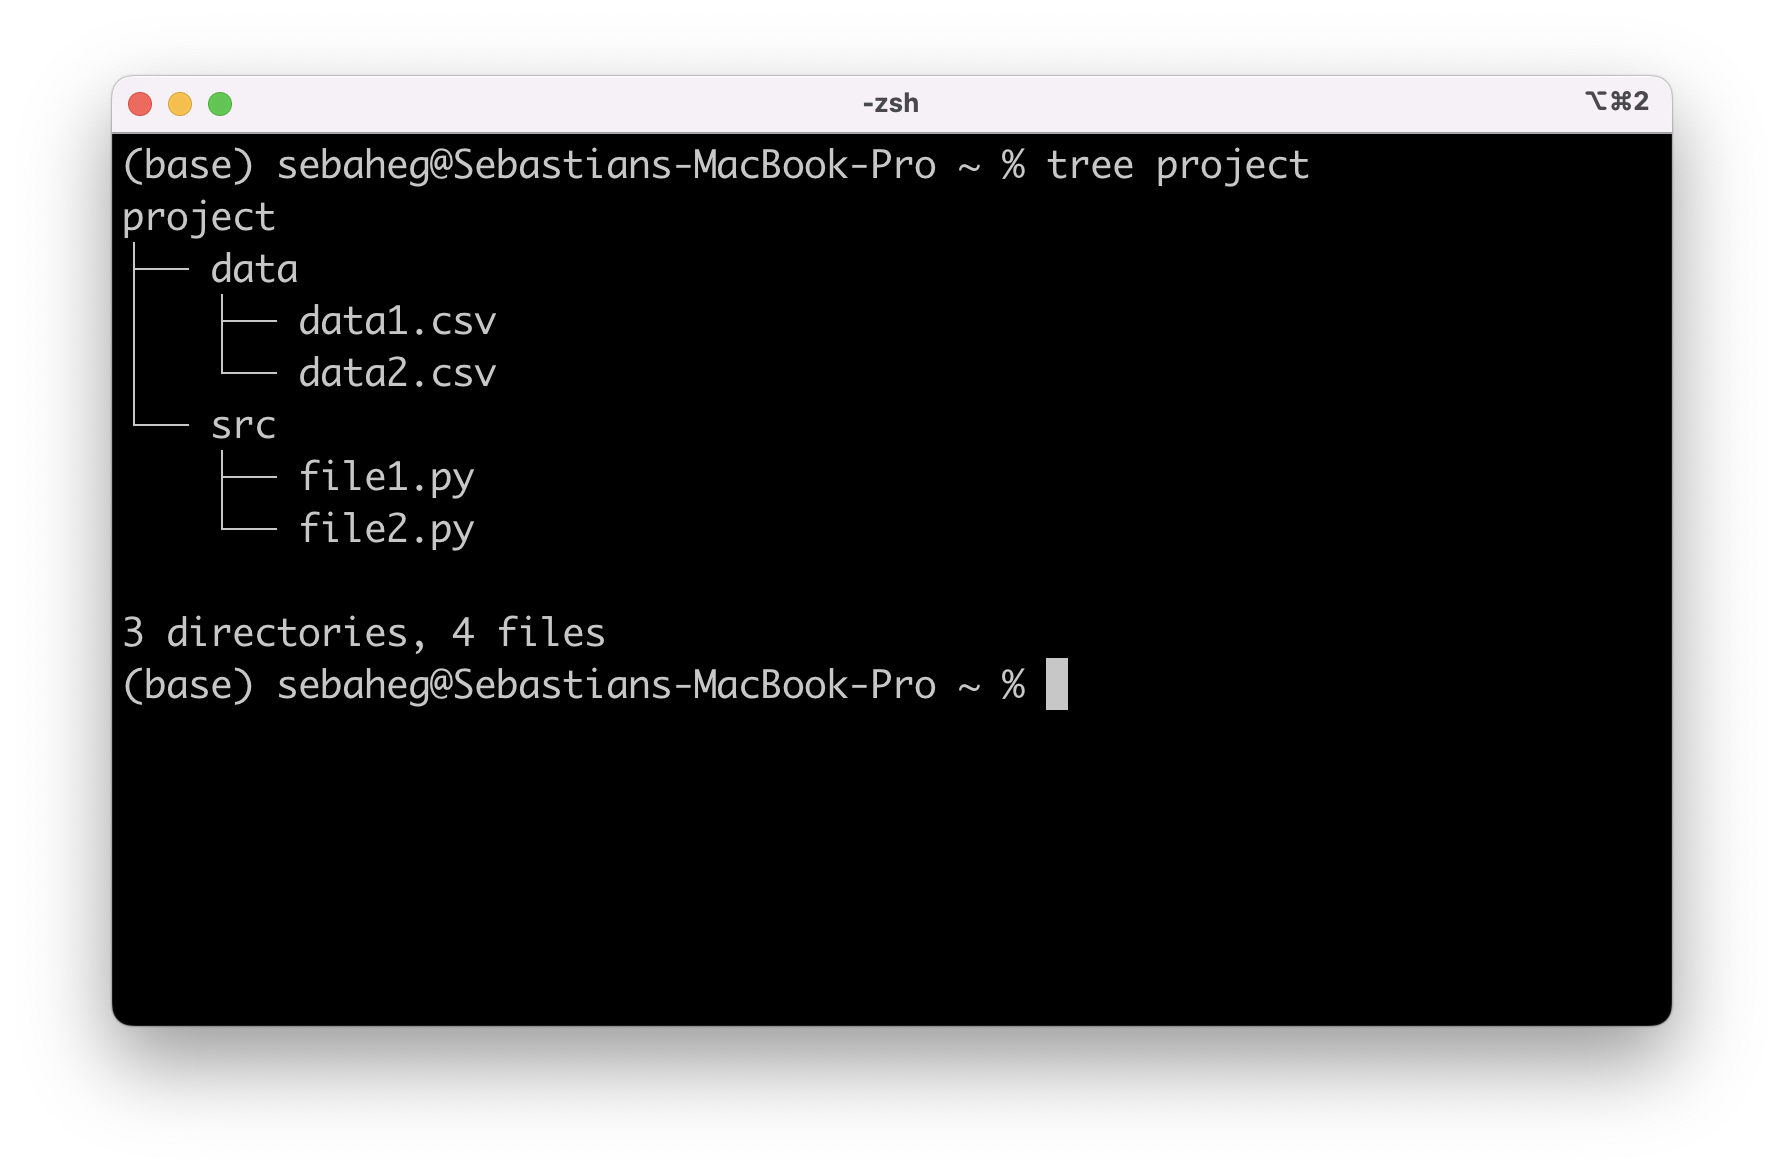
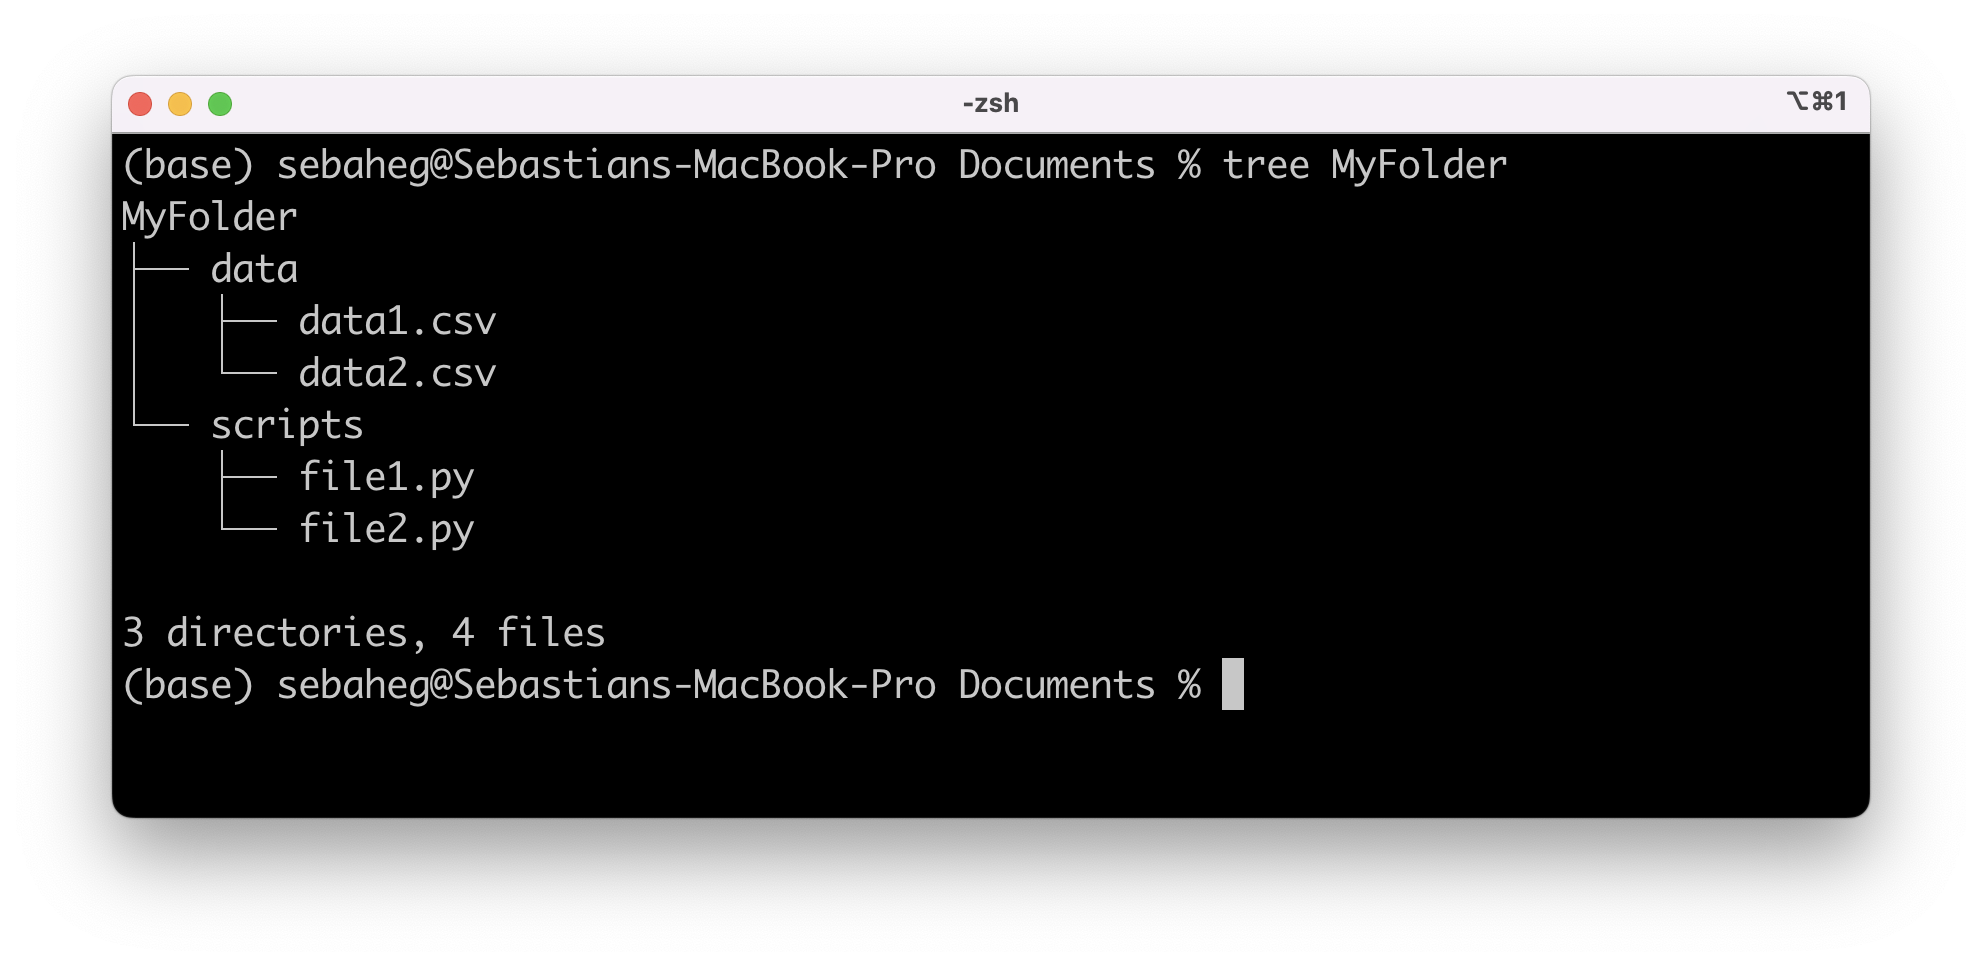
tree command

Changed region(s): [[0.0308, 0.0621, 0.9557, 0.9006], [0.5549, 0.559, 0.6166, 0.6211], [0.2466, 0.2484, 0.2775, 0.2795]]

diff --git a/README.md b/README.md
@@ -1,4 +1,4 @@
-# Python Tips and Tricks 🐍
+# Data Science Tips and Tricks 📈
 
 This page contains a collection of small, helpful Python tricks and tips designed to streamline your Python workflow, improve your productivity, and help you write smarter code. 
 
@@ -28,7 +28,7 @@ pip() {
 ```
 
 ### Print folder tree structure in terminal
-The terminal command `tree` lets you list the contents of a folder as a tree-like structure. 
+The terminal command `tree` lets you list the contents of a folder as a tree-like structure. The command to run is `tree path/to/folder`. 
 
 ![](images/tree.png)
 
